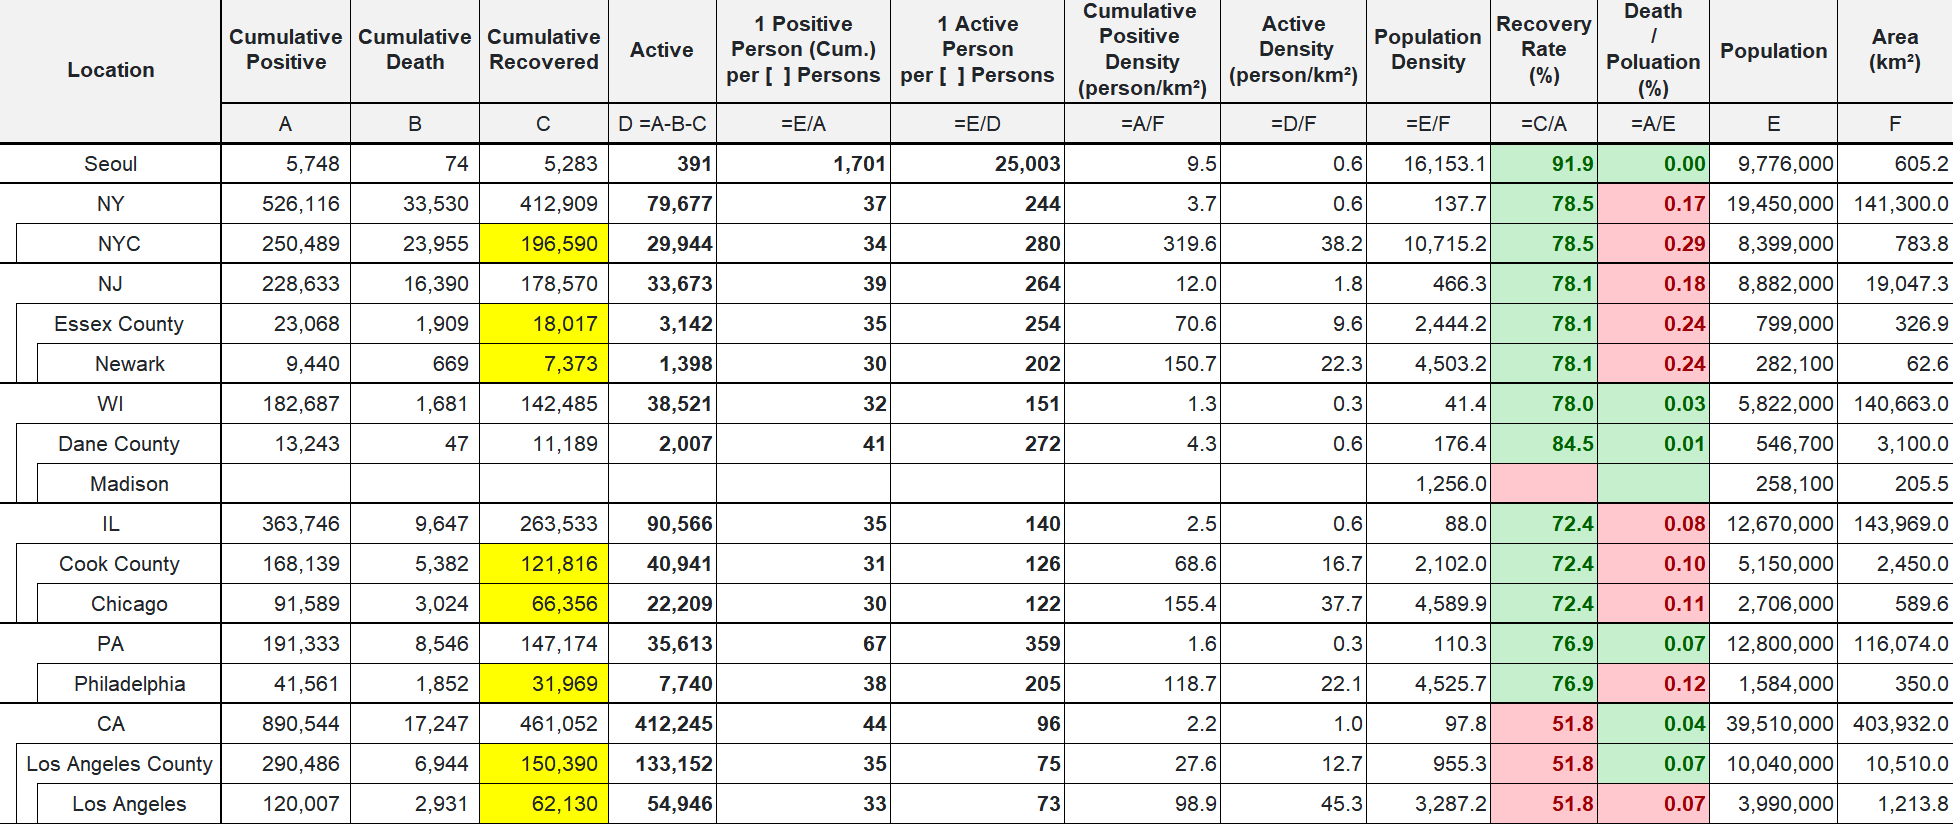
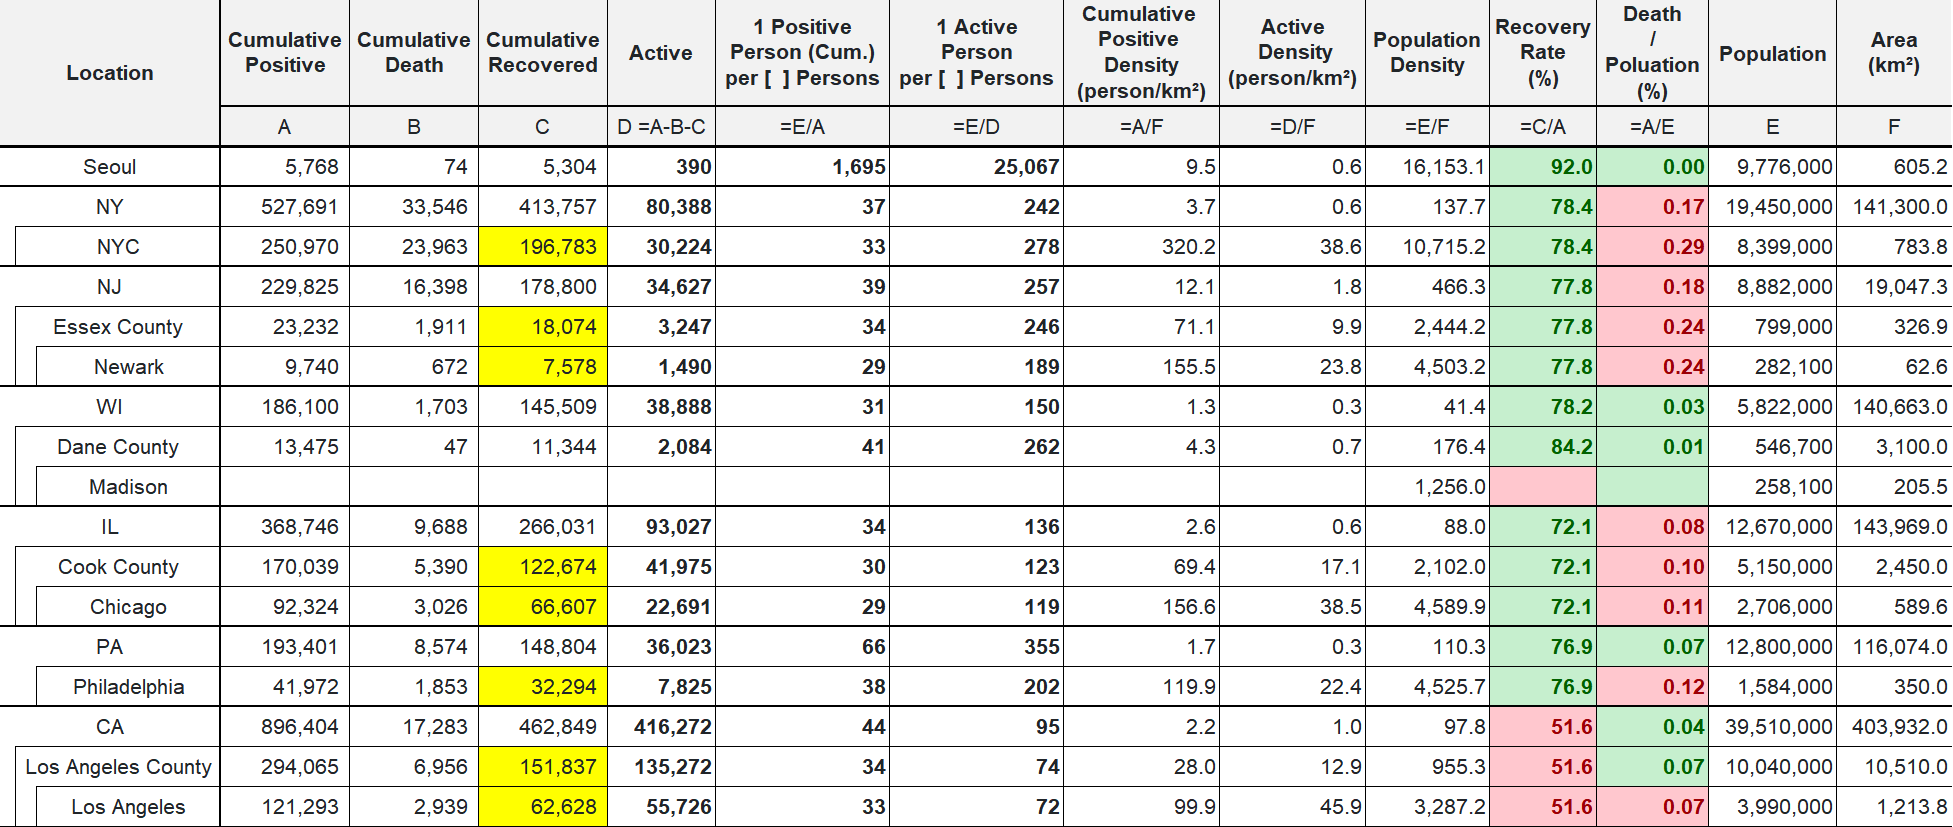
update 10/23 status

Changed region(s): [[0.0, 0.0, 1.0, 1.0], [0.0312, 0.0607, 0.0937, 0.1214]]

diff --git a/index.html b/index.html
@@ -19,7 +19,7 @@
 
 <body class="container-fluid">
 	<h1> CoronaV for Friends</h1>
-	<h2> Data updated at Oct 22 2020 EST 20:00</h2>
+	<h2> Data updated at Oct 23 2020 EST 19:40</h2>
 	<hr>
 	<main>
 		<div class="row">
